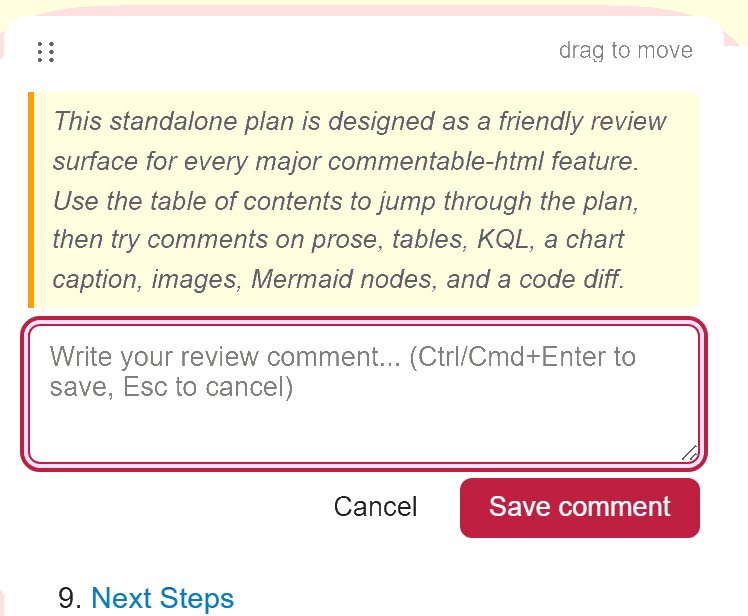
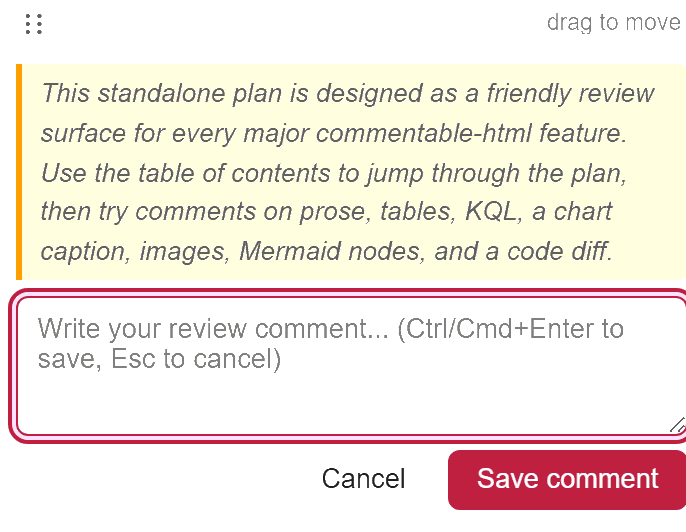
commentable-html site: box the landing showcase, shrink the screenshot, fix HiDPI blur
Follow-up polish to the landing-page showcase (issue #488). Feedback was that the
block looked lost, the screenshot was too big and low quality, and it needed a box.

- Wrap the showcase in a defined card (.showcase-card): elevated background, a strong
  border, rounded corners, and a shadow, so it reads as a contained unit not floating
  on the page. Top-align (align-items:start) so the short image lines up with the
  heading instead of leaving a vertical void.
- Shrink the screenshot to a small 300px frame. That also fixes the blur: the source
  was displayed larger than its native width and upscaled on HiDPI; at 300px it always
  downscales and stays crisp.
- Collapse the card to one centered column early (<=900px) so the tablet band no longer
  squeezes the two columns.
- Re-crop landing-composer.png to a clean, fully-framed composer (686x532): no clipped
  highlight arc, no orphaned 'Next Steps' fragment, breathing room around the buttons.
- Tests/spec: SITE-PLUGIN-23 asserts the card container (bg + border + padding); new
  SITE-PLUGIN-25 asserts the image is small and retina-crisp (naturalWidth >= 2x
  rendered width); SITE-PLUGIN-24 also checks the 820px tablet stack.

Reviewed with two rounds of a visual multi-duck audit across desktop/tablet/mobile and
light/dark before shipping.

Closes #488

diff --git a/site/css/36-showcase.css b/site/css/36-showcase.css
@@ -6,37 +6,52 @@
 /* Vertical padding only - the nested .wrap already provides the 20px horizontal gutter, so
    adding it here too would double the side margins and over-shrink the screenshot on mobile. */
 .showcase { padding: 8px 0 40px; }
-.showcase-grid {
+
+/* One defined card so the showcase reads as a cohesive, contained unit rather than floating
+   loose on the page background. The screenshot sits in a fixed, deliberately SMALL column so it
+   downscales (stays crisp on HiDPI/retina screens, where a larger CSS size would upscale and
+   blur) and reads as a supporting visual next to the copy. */
+.showcase-card {
   display: grid;
-  grid-template-columns: minmax(0, 1.05fr) minmax(0, 0.95fr);
-  gap: 36px;
-  align-items: center;
+  grid-template-columns: auto minmax(0, 1fr);
+  gap: 34px;
+  align-items: start;
+  background: var(--cp-bg-elevated);
+  border: 1px solid var(--cp-border-strong);
+  border-radius: var(--cp-radius);
+  box-shadow: var(--cp-shadow);
+  padding: 30px 34px;
 }
 
 /* Framed screenshot: a subtle browser-chrome mock (dots bar) plus border, rounded corners, and
-   a drop shadow so it reads as a polished product shot rather than a raw screengrab. */
+   a drop shadow so it reads as a polished product shot rather than a raw screengrab. Capped at a
+   small width so its native 686px source always downscales - never upscales - and stays sharp. */
 .showcase-shot { margin: 0; min-width: 0; }
 .showcase-frame {
+  width: 300px;
+  max-width: 100%;
   background: var(--cp-surface);
   border: 1px solid var(--cp-border);
-  border-radius: var(--cp-radius);
+  border-radius: 12px;
   box-shadow: var(--cp-shadow);
   overflow: hidden;
 }
 .showcase-dots {
   display: flex;
   align-items: center;
-  gap: 7px;
-  padding: 10px 14px;
+  gap: 6px;
+  padding: 8px 12px;
   background: var(--cp-surface-soft);
   border-bottom: 1px solid var(--cp-border);
 }
-.showcase-dot { width: 11px; height: 11px; border-radius: 50%; background: var(--cp-border-strong); }
+.showcase-dot { width: 9px; height: 9px; border-radius: 50%; background: var(--cp-border-strong); }
 /* Scale down responsively - never a fixed width that could overflow a small screen. */
 .showcase-img { display: block; width: 100%; height: auto; }
 .showcase-caption {
-  margin-top: 12px;
-  font-size: 0.9rem;
+  margin-top: 10px;
+  max-width: 300px;
+  font-size: 0.82rem;
+  line-height: 1.4;
   color: var(--cp-text-muted);
   text-align: center;
 }
@@ -73,10 +88,17 @@
 .showcase-step-body p { color: var(--cp-text-muted); font-size: 0.95rem; }
 .showcase-cta { display: inline-flex; }
 
-/* Mobile: stack the screenshot above the steps; the image already scales to 100% width so it
-   never overflows or forces a horizontal scroll. */
-@media (max-width: 760px) {
+/* Below ~900px the fixed small image + copy get cramped side by side, so collapse to a single
+   centered column early (well before phone width) - the screenshot stacks above the steps. The
+   image already scales to 100% width so it never overflows or forces a horizontal scroll. */
+@media (max-width: 900px) {
   .showcase { padding: 4px 0 28px; }
-  .showcase-grid { grid-template-columns: 1fr; gap: 22px; }
+  .showcase-card {
+    grid-template-columns: 1fr;
+    gap: 22px;
+    padding: 22px 20px;
+    justify-items: center;
+  }
+  .showcase-copy { width: 100%; }
   .showcase-lead { font-size: 1rem; }
 }

diff --git a/site/tests/tests/site-plugin.spec.js b/site/tests/tests/site-plugin.spec.js
@@ -531,6 +531,26 @@ test("the plugin page leads with a review-workflow showcase and a real UI screen
   const showcase = page.locator("#showcase");
   await expect(showcase).toHaveCount(1);
 
+  // The showcase is a contained CARD (a visible background, a real border, rounded corners, a
+  // drop shadow, and padding), so it reads as a cohesive unit instead of floating loose on the page.
+  const card = showcase.locator(".showcase-card");
+  await expect(card).toHaveCount(1);
+  const cardStyle = await card.evaluate((el) => {
+    const s = getComputedStyle(el);
+    return {
+      bg: s.backgroundColor,
+      border: parseFloat(s.borderTopWidth),
+      pad: parseFloat(s.paddingTop),
+      radius: parseFloat(s.borderTopLeftRadius),
+      shadow: s.boxShadow,
+    };
+  });
+  expect(cardStyle.bg).not.toBe("rgba(0, 0, 0, 0)");
+  expect(cardStyle.border).toBeGreaterThan(0);
+  expect(cardStyle.pad).toBeGreaterThan(0);
+  expect(cardStyle.radius).toBeGreaterThan(0);
+  expect(cardStyle.shadow).not.toBe("none");
+
   // The showcase leads the page: it is the FIRST element after the hero header (not buried below
   // other blocks), so the value proposition is on the first screen.
   const afterHero = await page.evaluate(() => {
@@ -596,8 +616,34 @@ test("the showcase screenshot scales within a mobile viewport with no horizontal
     .locator("#showcase")
     .evaluate((el) => el.scrollWidth <= el.clientWidth + 1);
   expect(noOverflow).toBe(true);
-  // The two-column grid collapses to a single column: the screenshot stacks above the steps.
+  // The card collapses to a single column: the screenshot stacks above the steps.
   const shot = await page.locator("#showcase .showcase-shot").boundingBox();
   const copy = await page.locator("#showcase .showcase-copy").boundingBox();
   expect(shot.y + shot.height).toBeLessThanOrEqual(copy.y + 1);
+
+  // It also collapses early - at a tablet width (820px, still below the ~900px breakpoint) - so the
+  // narrow-copy two-column squeeze in the tablet band is gone, not only at phone width.
+  await page.setViewportSize({ width: 820, height: 1100 });
+  const tShot = await page.locator("#showcase .showcase-shot").boundingBox();
+  const tCopy = await page.locator("#showcase .showcase-copy").boundingBox();
+  expect(tShot.y + tShot.height).toBeLessThanOrEqual(tCopy.y + 1);
+});
+
+
+test("the showcase screenshot renders small and stays crisp on HiDPI (SITE-PLUGIN-25)", async ({ page }) => {
+  await page.setViewportSize({ width: 1280, height: 900 });
+  await page.goto("/commentable-html/", { waitUntil: "domcontentloaded" });
+
+  const img = page.locator("#showcase img.showcase-img");
+  await expect(img).toBeVisible();
+  await img.scrollIntoViewIfNeeded();
+  await expect.poll(() => img.evaluate((el) => el.naturalWidth)).toBeGreaterThan(0);
+
+  const box = await img.boundingBox();
+  // Small: the screenshot is a supporting visual, capped well below a hero-sized image.
+  expect(box.width).toBeLessThanOrEqual(320);
+  // Crisp on HiDPI: the intrinsic pixel width is at least twice the rendered CSS width, so at 2x
+  // device-pixel-ratio the image still DOWNSCALES (never upscales, which is what blurred it before).
+  const naturalWidth = await img.evaluate((el) => el.naturalWidth);
+  expect(naturalWidth).toBeGreaterThanOrEqual(box.width * 2);
 });

diff --git a/site/pages/commentable-html/index.html b/site/pages/commentable-html/index.html
@@ -85,11 +85,11 @@
 
     <div id="showcase" class="showcase">
       <div class="wrap">
-        <div class="showcase-grid">
+        <div class="showcase-card">
           <figure class="showcase-shot">
             <div class="showcase-frame">
               <span class="showcase-dots" aria-hidden="true"><span class="showcase-dot"></span><span class="showcase-dot"></span><span class="showcase-dot"></span></span>
-              <img class="showcase-img" src="tutorial/assets/landing-composer.png" width="748" height="616" alt="A commentable HTML plan with a paragraph selected: an inline comment window shows the quoted selection above a 'Write your review comment' box with Cancel and Save comment buttons." />
+              <img class="showcase-img" src="tutorial/assets/landing-composer.png" width="686" height="532" alt="A commentable HTML plan with a paragraph selected: an inline comment window shows the quoted selection above a 'Write your review comment' box with Cancel and Save comment buttons." />
             </div>
             <figcaption class="showcase-caption">Select any text and a comment window opens right where you mean it - no alt-tabbing to the chat.</figcaption>
           </figure>

diff --git a/site/tests/SPEC.md b/site/tests/SPEC.md
@@ -104,8 +104,9 @@ suite (see `.github/workflows/pages.yml`).
 | SITE-PLUGIN-20 | The "What you get" Round-trip card explains that one Copy all returns every comment at once so the agent makes a single coordinated, coherent edit across all notes, rather than a one-at-a-time pass. | `site/tests/tests/site-plugin.spec.js` - `the What you get Round-trip card explains Copy all returns every comment at once for one coordinated edit (SITE-PLUGIN-20)` |
 | SITE-PLUGIN-21 | The "What you get" section includes a card ("No extension, runs everywhere") stating there is no browser extension, plugin, or install to add - the review layer is plain HTML, CSS, and JavaScript inside the file - so it opens in any modern browser on Windows, macOS, and Linux. | `site/tests/tests/site-plugin.spec.js` - `the features section pitches no extension, all-HTML, and cross-platform support (SITE-PLUGIN-21)` |
 | SITE-PLUGIN-22 | The "Private by design" section's "You own every copy" card notes that comments are keyed to a stable id baked into the document, so when it is served from one web origin, moving or renaming it there keeps browser-side notes, and an exported file always carries every comment inside it (durability does not depend on any browser store). The claim is qualified to same-origin hosting rather than promising portability across arbitrary file locations. | `site/tests/tests/site-plugin.spec.js` - `the privacy section qualifies comment persistence to same-origin hosting and export (SITE-PLUGIN-22)` |
-| SITE-PLUGIN-23 | The plugin page leads with a hero showcase (`#showcase`) placed as the FIRST element right after the hero header and ABOVE both the Install section and the feature grid, so the concrete value proposition leads the page instead of being buried below Install and the feature grid. The hero lead itself carries the "code review for your AI's plans and reports" one-liner. The showcase pairs a real, framed product screenshot (`img.showcase-img`, the synced `tutorial/assets/landing-composer.png` with descriptive alt text naming the inline comment window that actually decodes) with the concrete four-step review workflow rendered as numbered steps (Select, Comment inline, Copy all, Reload) that expose explicit ARIA list semantics (`ol.showcase-flow` has `role="list"` with four listitems, the VoiceOver safeguard for the `list-style:none` list) and a "Try the live demo" CTA (`.showcase-cta` to `#demo`). | `site/tests/tests/site-plugin.spec.js` - `the plugin page leads with a review-workflow showcase and a real UI screenshot above the feature grid (SITE-PLUGIN-23)` |
-| SITE-PLUGIN-24 | The hero showcase is mobile friendly: on a narrow (phone-width) viewport the screenshot scales down and stays FULLY within the viewport (both its left and right edges are on-screen, not merely narrower than the viewport while shifted off an edge), the `#showcase` block introduces no horizontal overflow, and the two-column grid collapses to one column so the screenshot stacks above the review-workflow steps. | `site/tests/tests/site-plugin.spec.js` - `the showcase screenshot scales within a mobile viewport with no horizontal overflow (SITE-PLUGIN-24)` |
+| SITE-PLUGIN-23 | The plugin page leads with a hero showcase (`#showcase`) placed as the FIRST element right after the hero header and ABOVE both the Install section and the feature grid, so the concrete value proposition leads the page instead of being buried below Install and the feature grid. The showcase content sits in a contained card (`.showcase-card`, a visible background, a real border, rounded corners, and a drop shadow) so it reads as a cohesive unit rather than floating loose on the page. The hero lead itself carries the "code review for your AI's plans and reports" one-liner. The showcase pairs a real, framed product screenshot (`img.showcase-img`, the synced `tutorial/assets/landing-composer.png` with descriptive alt text naming the inline comment window that actually decodes) with the concrete four-step review workflow rendered as numbered steps (Select, Comment inline, Copy all, Reload) that expose explicit ARIA list semantics (`ol.showcase-flow` has `role="list"` with four listitems, the VoiceOver safeguard for the `list-style:none` list) and a "Try the live demo" CTA (`.showcase-cta` to `#demo`). | `site/tests/tests/site-plugin.spec.js` - `the plugin page leads with a review-workflow showcase and a real UI screenshot above the feature grid (SITE-PLUGIN-23)` |
+| SITE-PLUGIN-24 | The hero showcase is mobile friendly: on a narrow (phone-width) viewport the screenshot scales down and stays FULLY within the viewport (both its left and right edges are on-screen, not merely narrower than the viewport while shifted off an edge), the `#showcase` block introduces no horizontal overflow, and the card collapses to one column so the screenshot stacks above the review-workflow steps. The card collapses EARLY (by ~900px, so a tablet-width 820px viewport is already stacked), avoiding the cramped two-column squeeze in the tablet band. | `site/tests/tests/site-plugin.spec.js` - `the showcase screenshot scales within a mobile viewport with no horizontal overflow (SITE-PLUGIN-24)` |
+| SITE-PLUGIN-25 | The showcase screenshot renders as a small supporting visual (rendered CSS width <= 320px, not a hero-sized image) and stays crisp at up to 2x device-pixel-ratio (the standard retina case): its intrinsic pixel width (`naturalWidth`) is at least twice its rendered CSS width, so at 2x DPR it downscales rather than upscaling (which previously blurred it). | `site/tests/tests/site-plugin.spec.js` - `the showcase screenshot renders small and stays crisp on HiDPI (SITE-PLUGIN-25)` |
 | SITE-WHY-01 | The review-loop diagram lives in the "Why commentable-html" section (moved out of "How the review loop works"), which keeps its heading and the three self/peer/reviewer step columns. | `site/tests/tests/site-demo-accessibility.spec.js` - `the review-loop diagram lives in the Why section, not the loop section` |
 | SITE-WHY-02 | The "Why commentable-html" section includes a medium-comparison table (chat / Markdown / plain HTML / commentable-html) with commentable-html as the highlighted `compare-hero` row, and references Anthropic's "unreasonable effectiveness of HTML" blog post (opens in a new tab, `rel=noopener`). | `site/tests/tests/site-demo-accessibility.spec.js` - `the Why section presents the medium comparison table and the HTML blog reference` |
 | SITE-WHY-03 | On a narrow (mobile) viewport the medium-comparison table stacks each row into a labeled card (column names exposed via `td[data-label]::before`) with no horizontal overflow; the tablet/desktop table layout is unchanged. | `site/tests/tests/site-demo-accessibility.spec.js` - `the medium comparison table stacks without horizontal overflow on a narrow viewport` |